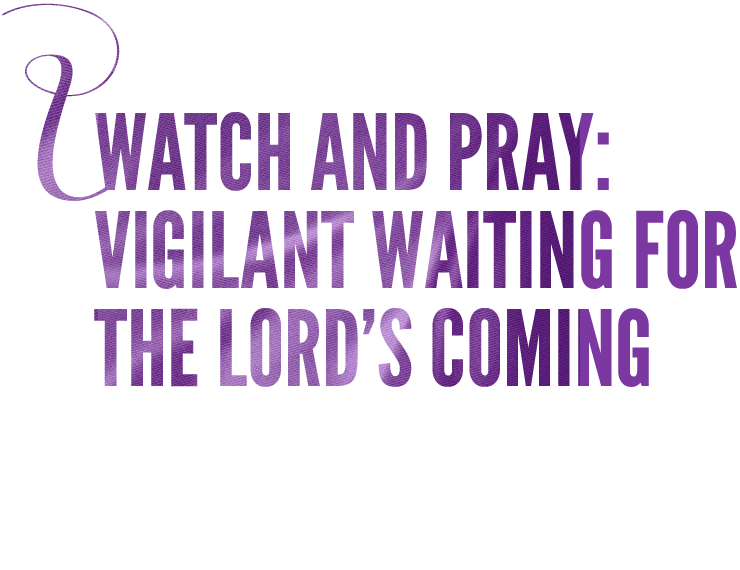
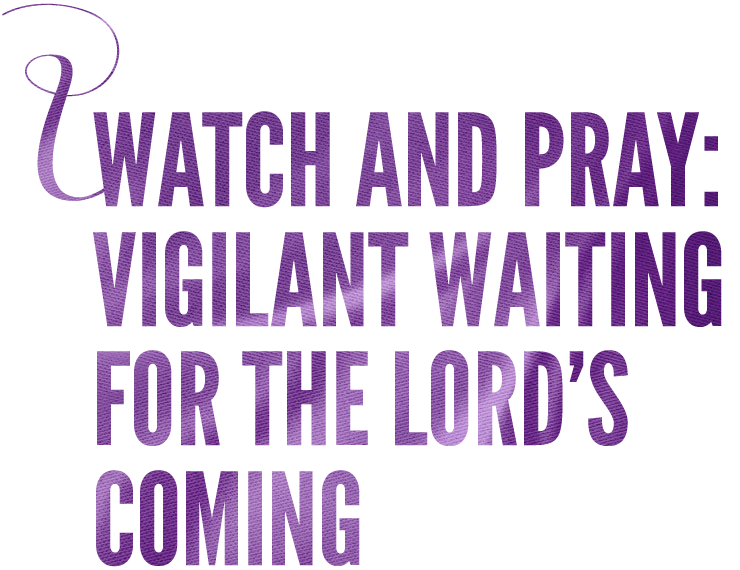
testing title

diff --git a/lib/css/app.css b/lib/css/app.css
@@ -765,7 +765,7 @@ section,
 		
 		/* img */
 		#pgWeeks [data-role="articleContent"] img.h1 { 
-			display:block; width:370px; height:285px; margin:45px 0 0 -110px; }
+			display:block; width:370px; height:285px; margin:65px 0 0 -50px; }
 		
 		/* articleNav */		
 		#pgWeeks [data-role="articleContent"] .articleNav,
